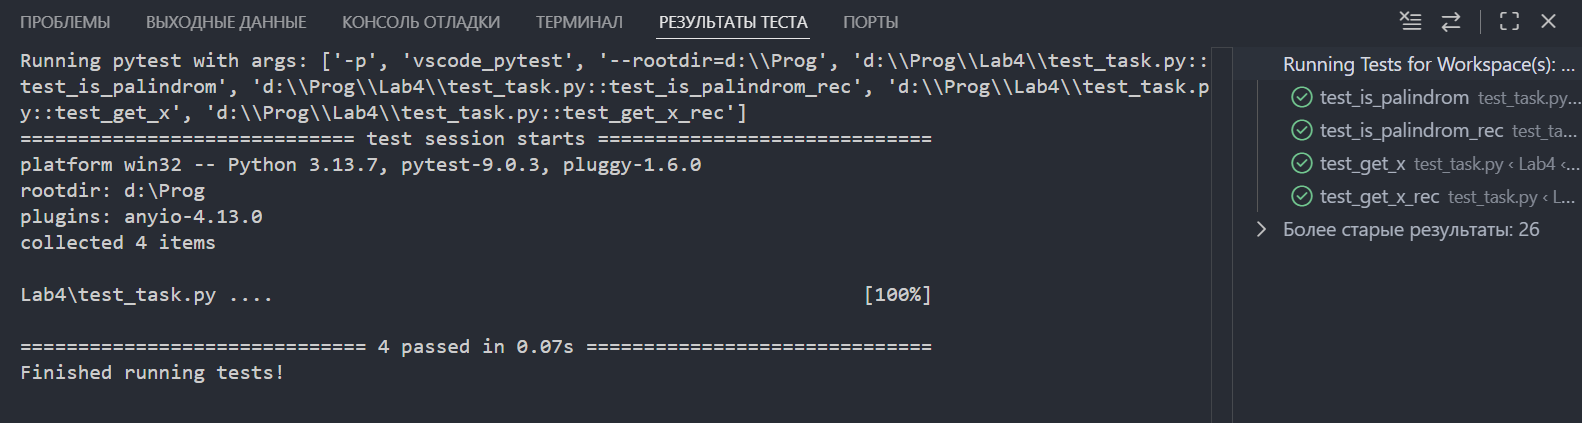
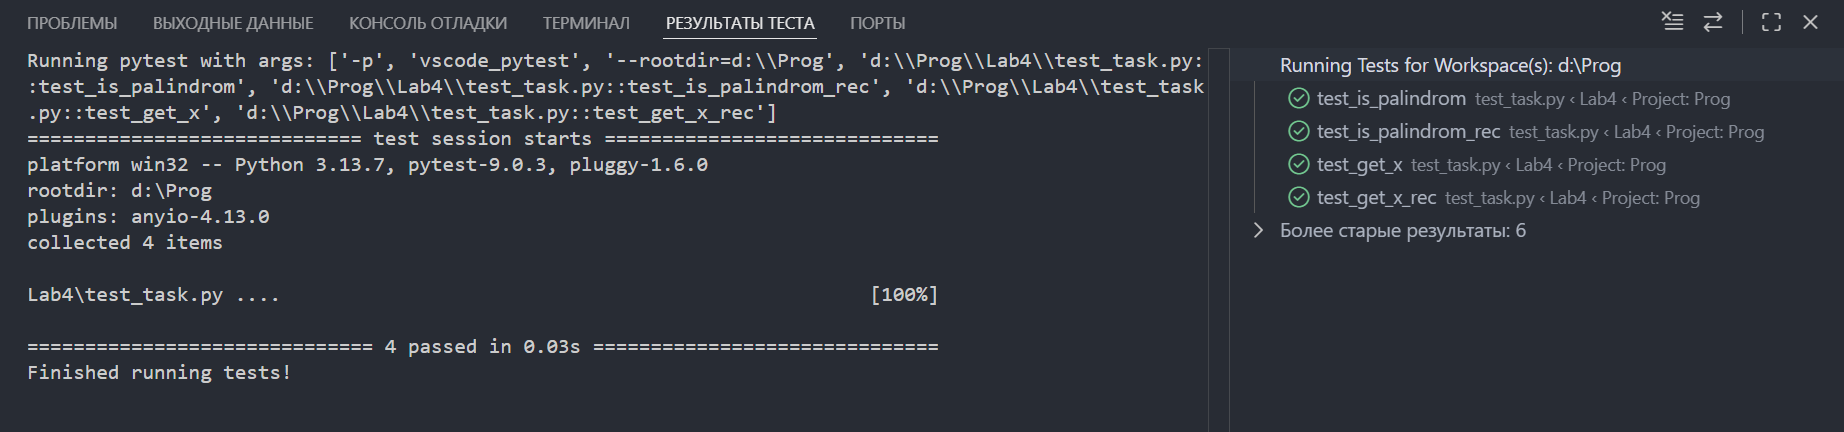
Lab 4 M new

diff --git a/Lab4/test_task.py b/Lab4/test_task.py
@@ -1,21 +1,35 @@
 from task import is_palindrom, is_palindrom_rec, get_x, get_x_rec
 
 def test_is_palindrom():
-    assert is_palindrom("12321")
-    assert is_palindrom("stats")
+    assert is_palindrom([])
+    assert is_palindrom([1])
+    assert is_palindrom([1,2,3,2,1])
+    assert is_palindrom('stats')
     assert not is_palindrom([1,2,3,4,5])
     assert not is_palindrom("start")
 
 def test_is_palindrom_rec():
-    assert is_palindrom_rec("12321")
-    assert is_palindrom_rec("stats")
+    assert is_palindrom_rec([])
+    assert is_palindrom_rec([1])
+    assert is_palindrom_rec([1,2,3,2,1])
+    assert is_palindrom_rec('stats')
     assert not is_palindrom_rec([1,2,3,4,5])
     assert not is_palindrom_rec("start")
 
 def test_get_x():
-    assert get_x(12)
-    assert get_x(3)
+    assert get_x(1) == 1
+    assert get_x(2) == 1
+    assert get_x(3) == 1
+    assert get_x(4) == 2
+    assert get_x(5) == 3
+    assert get_x(6) == 4
+    assert get_x(7) == 6
 
 def test_get_x_rec():
-    assert get_x_rec(12)
-    assert get_x_rec(3)
+    assert get_x(1) == 1
+    assert get_x(2) == 1
+    assert get_x(3) == 1
+    assert get_x(4) == 2
+    assert get_x(5) == 3
+    assert get_x(6) == 4
+    assert get_x(7) == 6

diff --git a/Lab6/task.py b/Lab6/task.py
@@ -1,0 +1,19 @@
+from PIL import Image
+
+def task(target_color):
+    def pixel_generator(image_path):
+        with Image.open(image_path) as img:
+            rgb_img = img.convert('RGB')
+            width, height = rgb_img.size
+            for y in range(height):
+                for x in range(width):
+                    yield (x, y), rgb_img.getpixel((x, y))
+
+    found = False
+    for (x, y), color in pixel_generator('Lab6/picture.jpg'):
+        if color == target_color:
+            print(f"Цвет {target_color} найден в координатах: x={x}, y={y}")
+            found = True
+            break
+    if not found:
+        print("Такого цвета в изображении нет")

diff --git a/Lab6/test_task.py b/Lab6/test_task.py
@@ -1,0 +1,4 @@
+from task import task
+
+def test_task():
+    assert task([106, 74, 35])

diff --git a/Lab4/README.md b/Lab4/README.md
@@ -58,29 +58,43 @@ print(get_x_rec(12))
 Данный код вывведет
 ![alt text](images/image.png)
 # Сложность Medium
-У нас есть файл task с иходным кодом задания. Создадим файл test_task, в котором будут написаны тесты для нашего кода. С помощью команды pip install pytest установим через терминал библиотеку pytest. Импортируем функции из модуля с заданием в модуль для проведения тестов. Для каждой функции проверим по два верных и два ложных (где это возможно) варианта.
+У нас есть файл task с иходным кодом задания. Создадим файл test_task, в котором будут написаны тесты для нашего кода. С помощью команды pip install pytest установим через терминал библиотеку pytest. Импортируем функции из модуля с заданием в модуль для проведения тестов. Для каждой функции проверим несколько вариантов.
 ```python
 from task import is_palindrom, is_palindrom_rec, get_x, get_x_rec
 
 def test_is_palindrom():
-    assert is_palindrom("12321")
-    assert is_palindrom("stats")
+    assert is_palindrom([])
+    assert is_palindrom([1])
+    assert is_palindrom([1,2,3,2,1])
+    assert is_palindrom('stats')
     assert not is_palindrom([1,2,3,4,5])
     assert not is_palindrom("start")
 
 def test_is_palindrom_rec():
-    assert is_palindrom_rec("12321")
-    assert is_palindrom_rec("stats")
+    assert is_palindrom_rec([])
+    assert is_palindrom_rec([1])
+    assert is_palindrom_rec([1,2,3,2,1])
+    assert is_palindrom_rec('stats')
     assert not is_palindrom_rec([1,2,3,4,5])
     assert not is_palindrom_rec("start")
 
 def test_get_x():
-    assert get_x(12)
-    assert get_x(3)
+    assert get_x(1) == 1
+    assert get_x(2) == 1
+    assert get_x(3) == 1
+    assert get_x(4) == 2
+    assert get_x(5) == 3
+    assert get_x(6) == 4
+    assert get_x(7) == 6
 
 def test_get_x_rec():
-    assert get_x_rec(12)
-    assert get_x_rec(3)
+    assert get_x(1) == 1
+    assert get_x(2) == 1
+    assert get_x(3) == 1
+    assert get_x(4) == 2
+    assert get_x(5) == 3
+    assert get_x(6) == 4
+    assert get_x(7) == 6
 ```
 Результат
 ![alt text](images/test.png)
